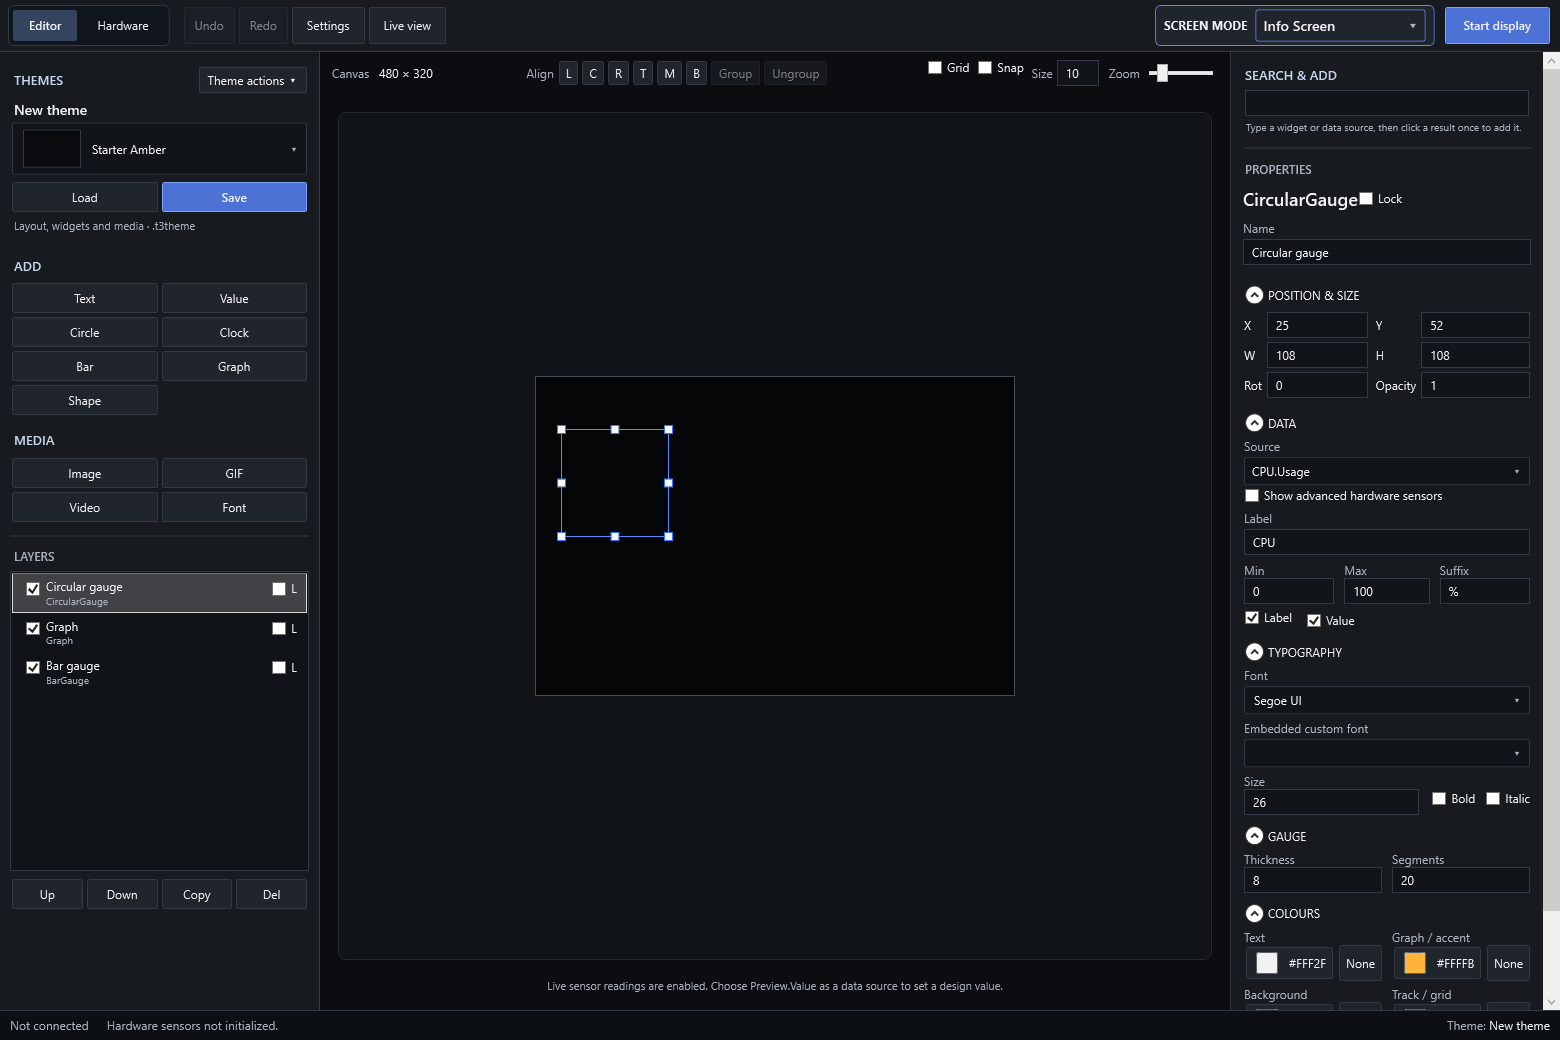
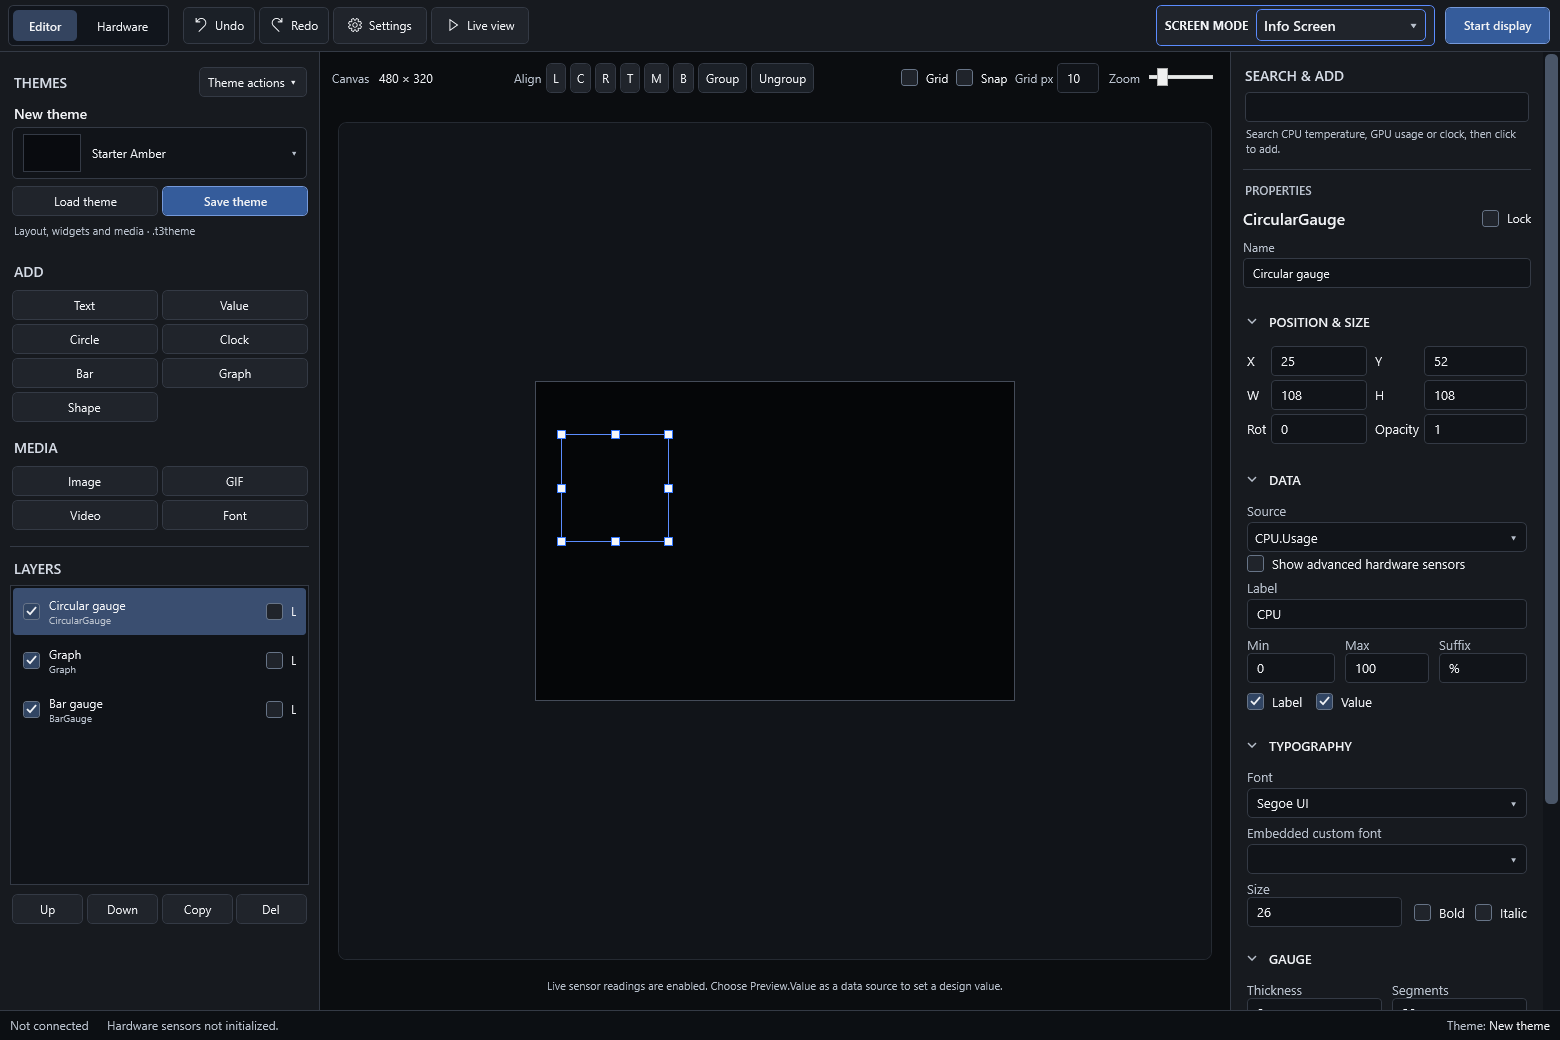
Release v0.10.0-alpha.4: polished UI and permanent portable alpha

diff --git a/README.md b/README.md
@@ -2,7 +2,7 @@
 
 A visual Windows editor and runtime for 3.5-inch Turing/TURZX-style USB PC info screens. Create a sensor dashboard, use the screen as a photo frame, or combine photos with information overlays.
 
-> **Status:** `0.10.0-alpha.4`. Actively developed alpha. A Windows x64 portable alpha is being prepared with a permanent release download. Development builds are available through GitHub Actions. There is no installer, code signing or automatic updater.
+> **Status:** `0.10.0-alpha.4`. Actively developed alpha. A permanent Windows x64 [portable download](https://github.com/ManethonSega/PC-Info-Screen-Studio/releases/tag/v0.10.0-alpha.4) is available. Development builds are also available through GitHub Actions. There is no installer, code signing or automatic updater.
 
 The priorities are an intuitive interface, lightweight operation, and a clear preview of the physical screen.
 
@@ -38,7 +38,7 @@ Combine photos with clock, weather or sensor overlays. Hybrid has its own overla
 
 ### Theme actions
 
-Each mode has a **Themes** panel with visible **Load** and **Save** buttons. The **Theme actions** menu groups New, Open, Save as, Duplicate, Rename, Delete and Refresh, with keyboard shortcuts shown beside the main actions.
+Each mode has a **Themes** panel with visible **Load theme** and **Save theme** buttons. The **Theme actions** menu groups New, Open, Save as, Duplicate, Rename, Delete and Refresh, with keyboard shortcuts shown beside the main actions.
 
 ![Dark theme-actions menu with keyboard shortcuts and clearly disabled actions for built-in themes](docs/images/theme-actions.png)
 
@@ -50,6 +50,12 @@ Choose a global caption font in Photo Frame or Hybrid, add a **Shape** from Hybr
 | --- | --- | --- |
 | ![Global caption font, size, colour and outline controls](docs/images/caption-settings.png) | ![Hybrid Add controls including Shape](docs/images/hybrid-overlays.png) | ![Widget colours with a background-only transparency slider and percentage input](docs/images/widget-background.png) |
 
+### Readable dark controls
+
+Selected layers, dropdown choices, tooltips and checkboxes use explicit dark styling, with consistent spacing and visible keyboard focus. Direct Add buttons and sensor search keep their familiar positions.
+
+![Actual WPF selected items, checked controls, text input, tooltip and section header with readable dark styling](docs/images/control-states.png)
+
 ### Settings window
 
 Open **Settings** from the top bar to manage screen connection, runtime, sensor access and editor preferences. Hardware and Settings pages use an almost-black charcoal `#101216` background with white and silver text. **Use live sensor data** stays checked because live readings are always enabled.
@@ -60,18 +66,19 @@ Open **Settings** from the top bar to manage screen connection, runtime, sensor 
 
 Use **Editor** to build your screen and **Hardware** to view PC hardware names and live CPU, GPU, memory, storage, network and cooling readings. Hardware is an app page; your selected Info Screen, Photo Frame or Hybrid mode and physical display output continue unchanged. Unavailable sensors are labelled clearly.
 
-Theme actions are now in **Themes** on the left for each mode. Choose a theme and select **Load**, or use **Save** and **Theme actions** for New, Open, Save as, Duplicate, Rename, Delete and Refresh. Ctrl+N, Ctrl+O, Ctrl+S and Ctrl+Shift+S use the active mode's file format. Editor shortcuts are suspended while viewing Hardware.
+Theme actions are now in **Themes** on the left for each mode. Choose a theme and select **Load theme**, or use **Save theme** and **Theme actions** for New, Open, Save as, Duplicate, Rename, Delete and Refresh. Ctrl+N, Ctrl+O, Ctrl+S and Ctrl+Shift+S use the active mode's file format. Editor shortcuts are suspended while viewing Hardware.
 
 Photo Frame (`.pcphoto`) and Hybrid (`.pchybrid`) themes save settings in their separate folders; photos stay on the PC. Themes remember the selected photo folder and reload its photos when opened. Themes without a folder keep the current playlist. Info Screen uses `.t3theme` files. Use **Save playlist** to save photo links separately.
 
 ## Download and run
 
-1. Open the [Windows build workflow](https://github.com/ManethonSega/PC-Info-Screen-Studio/actions/workflows/build.yml).
-2. Select the newest **successful** run on `main`.
-3. Under **Artifacts**, download `PCInfoScreenStudio-win-x64`. GitHub may require you to sign in.
-4. Extract the entire ZIP to a folder, then run `PCInfoScreenStudio.exe`. Keep all extracted files together.
+1. Download [PCInfoScreenStudio-0.10.0-alpha.4-win-x64.zip](https://github.com/ManethonSega/PC-Info-Screen-Studio/releases/download/v0.10.0-alpha.4/PCInfoScreenStudio-0.10.0-alpha.4-win-x64.zip) from the [portable alpha release](https://github.com/ManethonSega/PC-Info-Screen-Studio/releases/tag/v0.10.0-alpha.4).
+2. Extract the **entire folder** to a permanent location, then run `PCInfoScreenStudio.exe`. Keep all extracted files together.
+3. Read `START-HERE.txt` for connection, startup and tray instructions. The build is self-contained; no separate .NET runtime installation is required.
 
-The build is self-contained: a separate .NET runtime installation is not required. Artifacts are retained for **3 days**, and the workflow cleans up older builds. These are temporary development downloads, not permanent release links. If no artifact is available, build from source or ask the maintainer for a fresh build.
+The release includes [SHA256SUMS.txt](https://github.com/ManethonSega/PC-Info-Screen-Studio/releases/download/v0.10.0-alpha.4/SHA256SUMS.txt), matching source archives and `build-info.json` with the exact source commit. This is an **unsigned alpha**, with [documented device limits](docs/COMPATIBILITY.md) and [validation results and remaining checks](docs/VALIDATION.md).
+
+For newer development builds, open the [Windows build workflow](https://github.com/ManethonSega/PC-Info-Screen-Studio/actions/workflows/build.yml), select the latest successful `main` run, then download `PCInfoScreenStudio-win-x64` under **Artifacts**. GitHub may require sign-in. These artifacts expire after **3 days**; the release download above is permanent.
 
 ## Connect your screen
 

diff --git a/docs/ROADMAP.md b/docs/ROADMAP.md
@@ -56,7 +56,7 @@ The next milestone is product polish, not another broad feature category. Priori
 
 ## Memory status
 
-The owner reports approximately **150 MB RAM usage as of 5 October 2026**, replacing the earlier approximately 1 GB observation. This is an observation on the owner's setup, not a published benchmark or a guarantee for all themes and albums. No additional memory changes are part of this documentation update.
+The owner reports approximately **150 MB RAM usage as of 5 October 2026**, replacing the earlier approximately 1 GB observation. This is an observation on the owner's setup, not a published benchmark or a guarantee for all themes and albums. No urgent memory rewrite is planned on the strength of that observation.
 
 ## Next: polish and maintainability
 
@@ -66,7 +66,8 @@ The owner reports approximately **150 MB RAM usage as of 5 October 2026**, repla
 - [x] Automated Save/Load, independent settings, linked folder, layer position and session-resume checks for all three modes.
 - [x] Actual WPF minimize, restore, close-to-tray and Exit checks, plus simulated reconnect failure and recovery.
 - [ ] Confirm these workflows on the physical screen and with a new user.
-- [ ] Verify tooltip, menu, selected-button, and caption contrast in the actual Windows UI.
+- [x] Check actual selected-item and tooltip colours on the Windows runner and review WPF interface captures.
+- [ ] Confirm hover, menu and caption readability on the owner's Windows configuration and physical display.
 - [x] Controlled dark-control templates, consistent sizes/headings, toolbar icons, clear labels, descriptive hover help and a dark tray menu; direct actions stay in place.
 
 ### 2. Reduce maintenance risk without changing the interface
@@ -87,9 +88,9 @@ Validation should be focused on these user workflows and physical-device behavio
 
 ### 4. Make distribution dependable
 
-- [ ] Publish a versioned GitHub Release with a permanent portable download and matching source.
+- [x] Publish 0.10.0-alpha.4 as a versioned GitHub Release with a permanent portable download and matching source.
 - [x] Compatibility and validation records distinguish automated checks from physical-device evidence.
-- [ ] Refresh the UI screenshots for the polish release before publication.
+- [x] Refresh the UI screenshots from the actual Windows WPF controls before publication.
 - [ ] Decide on an installer and file associations after the portable workflow is stable.
 - [ ] Evaluate signing and update delivery separately; neither exists today.
 

diff --git a/docs/releases/0.10.0-alpha.4.md b/docs/releases/0.10.0-alpha.4.md
@@ -11,7 +11,7 @@ The release includes `SHA256SUMS.txt`. GitHub's source archives at this tag matc
 ## Changed
 
 - Explicit dark templates for dropdowns, selected layers, checkboxes, text inputs and expandable sections; readable hover and keyboard-focus states.
-- Consistent control sizes and section headings, secondary toolbar icons, clearer labels and hover explanations, and a dark tray menu.
+- Consistent control sizes and section headings, secondary toolbar icons, clearer labels and hover explanations, dark scrollbars and a dark tray menu.
 - Direct Add buttons remain on the left, sensor search remains on the right, and mode-specific panels, top-bar Settings and Edit/Live switching are preserved.
 - Windows startup with one-time task approval, remembered theme/mode/workspace, and automatic reconnection are included. Manual launches may still request UAC approval.
 - A self-contained portable download, getting-started guide, device compatibility record and validation record are included.

diff --git a/docs/VALIDATION.md b/docs/VALIDATION.md
@@ -2,6 +2,8 @@
 
 This document describes what the release workflow verifies and what still needs a person using a physical screen. The exact successful workflow and source SHA are recorded in the portable package's `build-info.json`.
 
+Candidate validation passed on **5 October 2026** in [Windows run 37362118377](https://github.com/ManethonSega/PC-Info-Screen-Studio/actions/runs/37362118377), including the extracted portable ZIP. The release workflow repeats these checks for its tagged source.
+
 ## Automated Windows checks
 
 | Workflow | Evidence provided by the checks |
